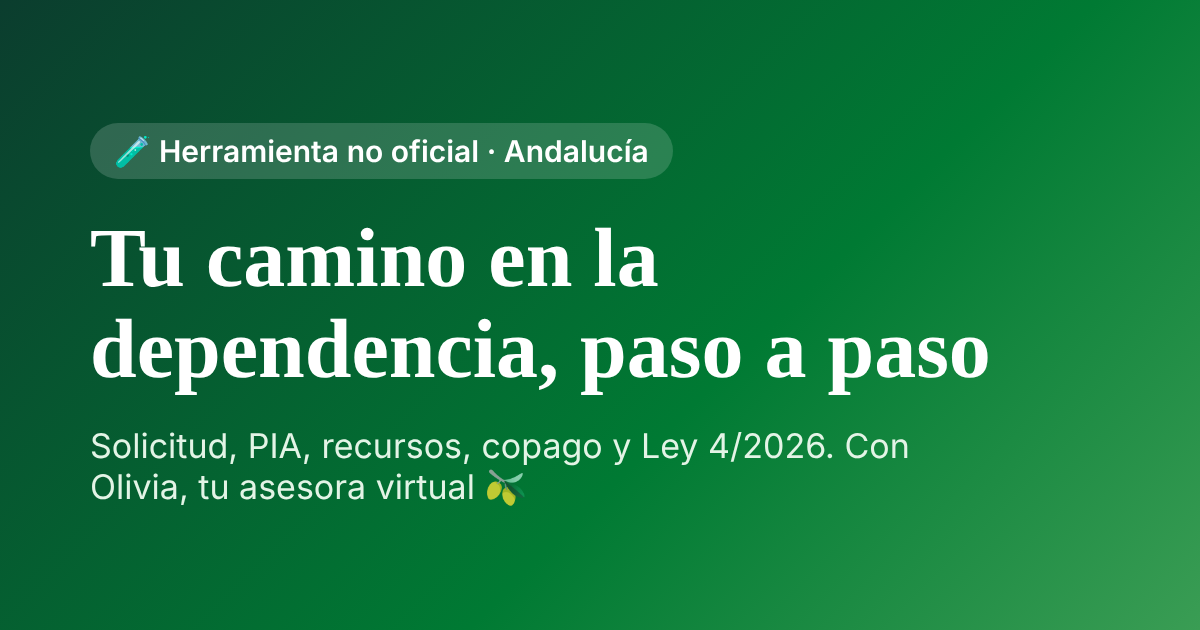
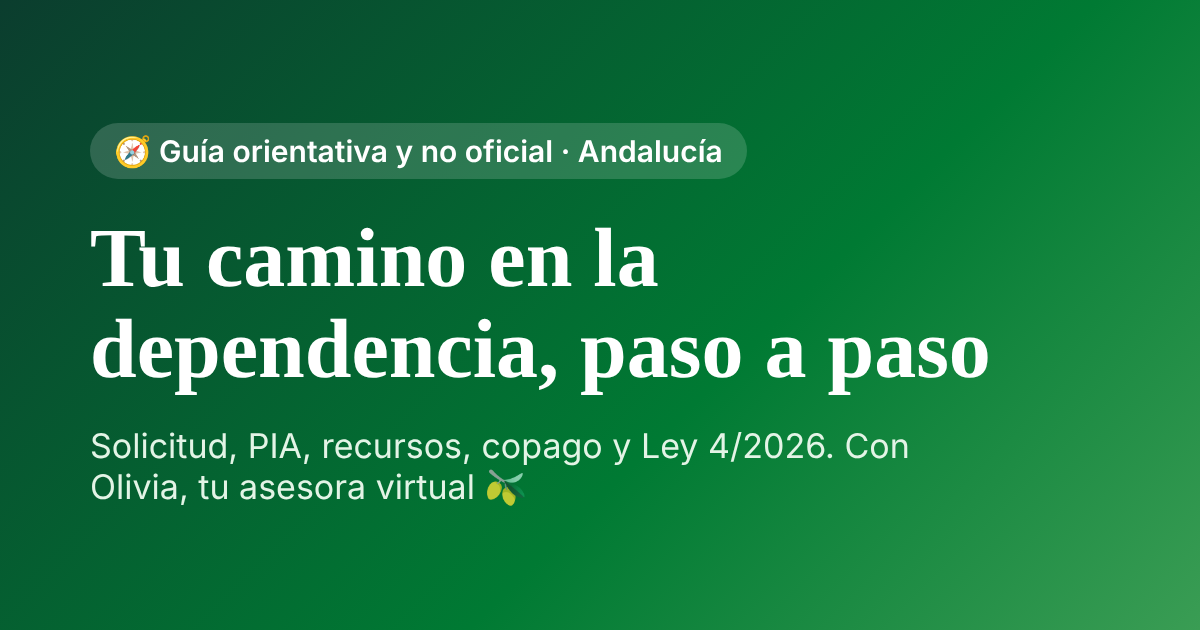
Refuerza el carácter orientativo y actualiza fuentes de SAD y copago
Claude-Session: https://claude.ai/code/session_01Fkx5Jbf6oi8ivHmDybVZEZ

Changed region(s): [[0.0925, 0.181, 0.6475, 0.3016]]

diff --git a/index.html b/index.html
@@ -2,10 +2,10 @@
 <html lang="es"><head><meta charset="utf-8">
 <meta name="viewport" content="width=device-width, initial-scale=1, viewport-fit=cover">
 <title>Orientador de Dependencia - Andalucía</title>
-<meta name="description" content="Guía gratuita y no oficial para familias y profesionales de Andalucía: solicitud de dependencia, PIA, recursos, copago y novedades de la Ley 4/2026.">
+<meta name="description" content="Guía orientativa, gratuita y no oficial para familias y profesionales de Andalucía: solicitud de dependencia, PIA, recursos, copago y novedades de la Ley 4/2026.">
 <meta property="og:type" content="website"><meta property="og:locale" content="es_ES">
-<meta property="og:title" content="Tu camino en la dependencia, paso a paso · Andalucía">
-<meta property="og:description" content="Orientador no oficial: solicitud, PIA, recursos, copago y la Ley 4/2026. Con Olivia, tu asesora virtual.">
+<meta property="og:title" content="Tu camino en la dependencia, paso a paso · Guía orientativa">
+<meta property="og:description" content="Guía orientativa y no oficial: solicitud, PIA, recursos, copago y la Ley 4/2026. Con Olivia, tu asesora virtual.">
 <meta property="og:url" content="https://raqueelfdez.github.io/Orientacion-en-Dependencia/">
 <meta property="og:image" content="https://raqueelfdez.github.io/Orientacion-en-Dependencia/og.png"><meta property="og:image:width" content="1200"><meta property="og:image:height" content="630">
 <meta property="og:image:alt" content="Tu camino en la dependencia, paso a paso. Orientador no oficial para Andalucía.">
@@ -209,7 +209,8 @@ const FUENTES = [
   ["Ventanilla Electrónica de la Dependencia", "https://www.juntadeandalucia.es/agenciadeserviciossocialesydependencia/ved/login", "Revisado el 25-10-2026"],
   ["Delegaciones territoriales de la Consejería", "https://www.juntadeandalucia.es/organismos/serviciossocialesfamiliaseigualdad/consejeria/delegaciones.html", "Revisado el 25-10-2026"],
   ["Real Decreto-ley 17/2026 (BOE 24-6-2026)", "", "Financiación. Consultado en fuentes secundarias"],
-  ["Horas de SAD y umbrales de copago en Andalucía", "", "Sin confirmar en la normativa de la Junta (Órdenes de 2007)"],
+  ["Orden de 27 de julio de 2023, del Servicio de Ayuda a Domicilio en Andalucía (BOJA extraordinario n.º 21, 28-7-2023)", "https://www.juntadeandalucia.es/boja/2023/521/1", "Verificado el 25-10-2026: art. 14 (22 h/mes con centro de día) y que deroga la Orden de 2007. No he podido leer el Anexo II (horas por grado) ni el Anexo III (participación en el coste)"],
+  ["Orden en preparación sobre capacidad económica y copago (Agencia de Servicios Sociales y Dependencia)", "https://www.juntadeandalucia.es/servicios/participacion/normativa/consulta-previa/detalle/584002.html", "Consulta pública previa de mayo de 2025. Los criterios de copago están hoy repartidos en varias normas: confirma cuál se aplica a tu caso"],
 ];
 const PROVINCIAS = [["Almería","almeria"],["Cádiz","cadiz"],["Córdoba","cordoba"],["Granada","granada"],["Huelva","huelva"],["Jaén","jaen"],["Málaga","malaga"],["Sevilla","sevilla"]];
 const DELEG = "https://www.juntadeandalucia.es/organismos/serviciossocialesfamiliaseigualdad/consejeria/delegaciones/";
@@ -236,11 +237,11 @@ const RESP = [
   [["pecef","pevs","diferencia"], "La PECEF es una ayuda excepcional para cuidados en el entorno familiar. La PEVS ayuda a pagar un servicio privado cuando no hay plaza o servicio público disponible. Cuál corresponde lo decide el PIA."],
   [["pecef","cuidador","cuidadora","familiar","cuidados en el entorno"], "La PECEF es excepcional. La Ley 4/2026 permite que la persona cuidadora sea del ámbito familiar o relacional, incorpora sus derechos y elimina el plazo suspensivo de dos años (la espera para empezar a cobrar). Se aplica desde el 23 de octubre de 2026; confirma con Servicios Sociales cómo lo gestiona Andalucía."],
   [["pevs","vinculada","servicio privado"], "La PEVS se concede solo cuando no hay un servicio público adecuado disponible, y se destina a pagar el servicio privado acreditado."],
-  [["copago","calcula","iprem","capacidad","pagar","coste"], "El copago depende de tu capacidad económica (renta y patrimonio) comparada con el IPREM y del servicio. La Ley 4/2026 encarga al Consejo Territorial nuevos criterios que excluirán la vivienda habitual y fijarán mínimos exentos, pero mientras no haya acuerdo siguen las reglas actuales. Pide una simulación en Servicios Sociales."],
+  [["copago","calcula","iprem","capacidad","pagar","coste"], "El copago depende de tu capacidad económica (renta y patrimonio) comparada con el IPREM y del servicio. La Ley 4/2026 encarga al Consejo Territorial nuevos criterios que excluirán la vivienda habitual y fijarán mínimos exentos, pero mientras no haya acuerdo siguen las reglas actuales. En Andalucía se preparaba una nueva orden para unificar los criterios de copago (consulta pública previa de 2025): confirma si ya se ha aprobado. Pide una simulación en Servicios Sociales."],
   [["irpf","hacienda","impuesto","declaracion de la renta","tributa"], "Desde el 23 de octubre de 2026 quedan exentas de IRPF las prestaciones económicas de dependencia para cuidados en el entorno familiar, vinculadas al servicio, de asistencia personal y de cuidados y apoyos en viviendas. Para tu declaración, consulta a la Agencia Tributaria o a una persona asesora fiscal."],
   [["ley 4","4/2026","reforma","novedad","novedades","entra en vigor","vigor"], "La Ley 4/2026, de 1 de octubre (BOE 3-10-2026), reforma la Ley 39/2006 y la Ley General de discapacidad. Entra en vigor el 23 de octubre de 2026. Trae teleasistencia como derecho subjetivo, fin de las incompatibilidades estatales, nuevos servicios y cambios en la PECEF. Su aplicación en Andalucía depende de su desarrollo."],
   [["teleasistencia"], "La Ley 4/2026 reconoce la teleasistencia como derecho subjetivo para toda persona en situación de dependencia, en cualquier grado. Todavía hay que ver cómo y cuándo se aplica en Andalucía. Pregunta en tus Servicios Sociales."],
-  [["sad","ayuda a domicilio","horas","domicilio"], "El SAD se concede por horas mensuales según el grado. Orientativamente, según fuentes divulgativas para Andalucía: grado I, de 20 a 37 h; grado II, de 38 a 64 h; grado III, de 65 a 94 h (cifras sin confirmar en la Orden). Si hay también centro de día, el máximo es de 22 h al mes. La cifra concreta la fija el PIA. La Ley 4/2026 amplía el SAD al entorno próximo y permite organizarlo de forma colectiva."],
+  [["sad","ayuda a domicilio","horas","domicilio"], "El SAD se concede por horas mensuales según el grado. Orientativamente, según fuentes divulgativas para Andalucía: grado I, de 20 a 37 h; grado II, de 38 a 64 h; grado III, de 65 a 94 h (cifras sin confirmar en el Anexo II de la Orden de 27-7-2023, que regula hoy el SAD en Andalucía). Si es compatible con centro de día o de noche, son 22 h al mes de lunes a viernes. La cifra concreta la fija el PIA. La Ley 4/2026 amplía el SAD al entorno próximo y permite organizarlo de forma colectiva."],
   [["discapacidad","33","65","equipar","equipara"], "La Ley 4/2026 equipara dependencia grado I con un 33 % de discapacidad y los grados II y III con un 65 %, solo en los ámbitos que la ley prevea y sin efecto tributario. Puedes pedir la valoración de tu discapacidad real si te conviene."],
   [["compatible","compatibilidad","incompatible","incompatibilidad","combinar"], "La Ley 4/2026 suprime las incompatibilidades estatales entre prestaciones, pero mantiene las de cada comunidad. En Andalucía, hasta que la Junta las cambie, siguen las suyas. Confirma cada combinación con Servicios Sociales."],
   [["plazo","valoracion","tarda","tiempo","espera"], "Los plazos reales varían por provincia. Desde el 23 de octubre de 2026, la Ley 4/2026 fija un plazo máximo de tres meses para resolver el reconocimiento de la dependencia. Si transcurren seis meses desde la solicitud sin resolución expresa, el derecho de acceso a las prestaciones se genera igualmente. Consulta el estado en la Ventanilla Electrónica."],
@@ -280,7 +281,7 @@ function respuestaLocal(q) { const i = buscar(q); return i < 0 ? { content: FALL
 const SISTEMA = "Te llamas Olivia y eres la asesora virtual experta en el Sistema para la Autonomía y Atención a la Dependencia (SAAD) en Andalucía y en los procedimientos de la Junta de Andalucía (ASSDA, Servicios Sociales Comunitarios, Ventanilla Electrónica, PIA, SAD, PECEF, PEVS, copago). Hablas en español, con tono cercano y claro, en respuestas breves (máximo unos 150 palabras). Si te falta un dato clave, haz una sola pregunta. No inventes cuantías, plazos ni artículos de normas: si no estás seguro, dilo y remite al BOJA, a la sede de la Junta o a los Servicios Sociales de su zona. No des garantías de concesión: el PIA lo resuelve la administración. Conoces la Ley 4/2026, de 1 de octubre (BOE 3-10-2026): equipara dependencia grado I a 33 % de discapacidad y grados II y III a 65 % (sin efecto tributario); reconoce la teleasistencia como derecho subjetivo; añade asistencia personal, viviendas con apoyos y productos de apoyo al catálogo; amplía el SAD al entorno próximo y a la modalidad colectiva; suprime las incompatibilidades estatales pero mantiene las autonómicas; elimina el plazo suspensivo de dos años de la PECEF; amplía la EVE a 3-6 años; y encarga al Consejo Territorial nuevos criterios de capacidad económica y copago. Entra en vigor a los 20 días de su publicación (el 23-10-2026) y necesita desarrollo, así que no afirmes que ya se aplica en Andalucía. Fija un plazo máximo de tres meses para resolver el reconocimiento de la dependencia, exime de IRPF la PEVS, la PECEF, la asistencia personal y la de cuidados en viviendas, y obliga al Estado a asumir al menos el 50 % del gasto certificado. Eres una herramienta no oficial en pruebas, sin vinculación con la Junta de Andalucía. Responde solo sobre dependencia y servicios sociales.";
 
 function Chat() {
-  const [msgs, setMsgs] = useState([{ role: "assistant", content: "¡Hola! Soy Olivia, tu asesora en dependencia. Cuéntame tu situación con tus palabras o elige la que más se parezca a la tuya y te oriento." }]);
+  const [msgs, setMsgs] = useState([{ role: "assistant", content: "¡Hola! Soy Olivia, tu asesora en dependencia. Te oriento de forma general, pero no valoro tu caso ni sustituyo a los Servicios Sociales. Cuéntame tu situación con tus palabras o elige la que más se parezca a la tuya." }]);
   const [txt, setTxt] = useState("");
   const [busy, setBusy] = useState(false);
   const fin = React.useRef(null);
@@ -308,7 +309,7 @@ function Chat() {
         <div className="w-12 h-12 rounded-full bg-white flex items-center justify-center text-2xl shadow" aria-hidden="true">🫒</div>
         <div>
           <h2 className="text-xl font-bold leading-none">Olivia</h2>
-          <p className="text-sm text-green-50 mt-1"><span className="inline-block w-2 h-2 rounded-full bg-lime-300 mr-1.5" />Tu asesora en dependencia · Andalucía</p>
+          <p className="text-sm text-green-50 mt-1"><span className="inline-block w-2 h-2 rounded-full bg-lime-300 mr-1.5" />Te orienta, no valora tu caso · Andalucía</p>
         </div>
       </div>
       <div className="flex-1 overflow-y-auto p-4 space-y-4 bg-slate-50" aria-live="polite">
@@ -410,7 +411,7 @@ function App() {
       <header className="hero text-white noprint">
         <div className="max-w-4xl mx-auto px-5 pt-6 pb-8 sm:pt-10 sm:pb-14">
           <div className="flex flex-wrap items-center justify-between gap-3 mb-4">
-            <p className="inline-block bg-white/15 rounded-full px-3 py-1 text-sm">🧪 Herramienta no oficial · en pruebas · Octubre 2026</p>
+            <p className="inline-block bg-white/15 rounded-full px-3 py-1 text-sm">🧭 Guía orientativa y no oficial · en pruebas · Octubre 2026</p>
             <div className="flex gap-2">
             <button onClick={() => setFacil(!facil)} aria-pressed={facil} className={`px-3 py-1.5 rounded-full bg-white/15 hover:bg-white/25 text-sm font-bold ${focus}`}>{facil ? "✅ Lectura fácil" : "🔤 Lectura fácil"}</button>
             <button onClick={() => setOscuro(!oscuro)} aria-pressed={oscuro} className={`px-3 py-1.5 rounded-full bg-white/15 hover:bg-white/25 text-sm font-bold ${focus}`}>{oscuro ? "☀ Modo claro" : "🌙 Modo oscuro"}</button>
@@ -434,9 +435,9 @@ function App() {
       </nav>
 
       <main className="max-w-4xl mx-auto px-4 py-8">
-        <div className="noprint flex gap-2 items-start bg-amber-50 border border-amber-200 text-amber-900 rounded-2xl p-4 text-sm mb-6" role="note">
+        <div className="noprint flex gap-2 items-start bg-amber-50 border-2 border-amber-300 text-amber-900 rounded-2xl p-4 text-sm mb-6" role="note">
           <AlertTriangle size={18} className="shrink-0 mt-0.5" />
-          <p>Herramienta orientativa. Cuantías, plazos y compatibilidades deben comprobarse en el BOJA, en la sede de la Junta y con los Servicios Sociales antes de aplicarlos a un caso real.</p>
+          <div><p className="font-bold text-base">🧭 Esto es una orientación, no la verdad absoluta</p><p className="mt-1">Resume normas y trámites para ayudarte a situarte, pero no valora tu caso ni sustituye a los Servicios Sociales. Las normas y los datos cambian y puede haber errores. Antes de decidir nada, comprueba en el BOE, el BOJA y la web de la Junta, y consulta con tus Servicios Sociales.</p></div>
         </div>
 
         {tab === "nov" && (
@@ -505,7 +506,8 @@ function App() {
             ) : (
               <div className="space-y-5">
                 <h2 className="text-xl font-bold">Resultado de la orientación</h2>
-                <p className="printonly text-sm">Plan de intervención orientativo · {new Date().toLocaleDateString("es-ES")}</p>
+                <p className="noprint text-sm bg-amber-50 border border-amber-200 text-amber-900 rounded-xl p-3">🧭 Resultado orientativo, no una valoración de tu caso. La administración decide el grado, el PIA y las prestaciones.</p>
+                <p className="printonly text-sm">Plan de intervención ORIENTATIVO, no vinculante ni una valoración del caso · {new Date().toLocaleDateString("es-ES")}</p>
                 <div><h3 className="font-semibold mb-1">Diagnóstico</h3><p className="text-slate-700">{res.diag}</p></div>
                 <div><h3 className="font-semibold mb-1">Recursos recomendados</h3><Lista items={res.recs} /></div>
                 <div><h3 className="font-semibold mb-1 flex items-center gap-1"><HandCoins size={16} />Copago orientativo</h3><p className="text-slate-700">{res.copago}</p></div>
@@ -576,7 +578,7 @@ function App() {
             </div>
             <div className={"bg-white rounded-2xl shadow-sm border border-slate-100 p-6" + (impDocs ? " noprint" : "")}>
               <h2 className="text-xl font-bold flex items-center gap-2"><Home size={20} style={{ color: "var(--gt)" }} />Simulador de horas de SAD al mes</h2>
-              <p className="text-sm text-slate-500 mb-3">Intensidades orientativas para Andalucía según fuentes divulgativas, sin confirmar en la Orden. La cifra concreta la fija el PIA. Si el PIA incluye también centro de día (grado II nivel 2 y grado III), el SAD tiene como máximo 22 horas al mes, de lunes a viernes.</p>
+              <p className="text-sm text-slate-500 mb-3">Intervalos orientativos tomados de fuentes divulgativas: no he podido confirmarlos en el Anexo II de la Orden de 27 de julio de 2023, que es la norma andaluza vigente del SAD. La cifra concreta la fija tu PIA. Si el SAD es compatible con centro de día o de noche, su intensidad es de 22 horas al mes, de lunes a viernes (artículo 14 de esa Orden).</p>
               <div className="flex gap-2 mb-4" role="group" aria-label="Grado">
                 {Object.keys(SAD).map((g) => (
                   <button key={g} onClick={() => setGrado(g)} aria-pressed={grado === g}
@@ -602,7 +604,7 @@ function App() {
         )}
       </main>
       <footer className="noprint max-w-4xl mx-auto px-5 pb-28 sm:pb-10 text-xs text-slate-500 text-center">
-        Herramienta informativa no oficial, en pruebas. Sin vinculación con la Junta de Andalucía ni con la ASSDA. No sustituye el asesoramiento de Servicios Sociales. No se guarda ningún dato personal. Última actualización: 25 de octubre de 2026.
+        Herramienta informativa y orientativa, no oficial y en pruebas: no es una fuente legal ni una valoración de tu caso. Sin vinculación con la Junta de Andalucía ni con la ASSDA. No sustituye el asesoramiento de Servicios Sociales. No se guarda ningún dato personal. Última actualización: 25 de octubre de 2026.
       </footer>
       <nav className="noprint sm:hidden fixed bottom-0 inset-x-0 z-20 bg-white/90 backdrop-blur border-t border-slate-200 grid grid-cols-4" style={{ paddingBottom: "env(safe-area-inset-bottom, 0px)" }} aria-label="Secciones">
         {tabs.map(([id, n, e]) => (
